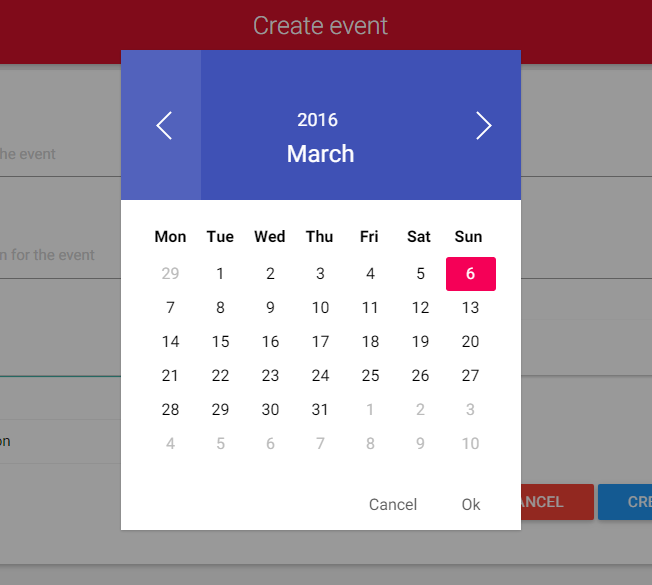
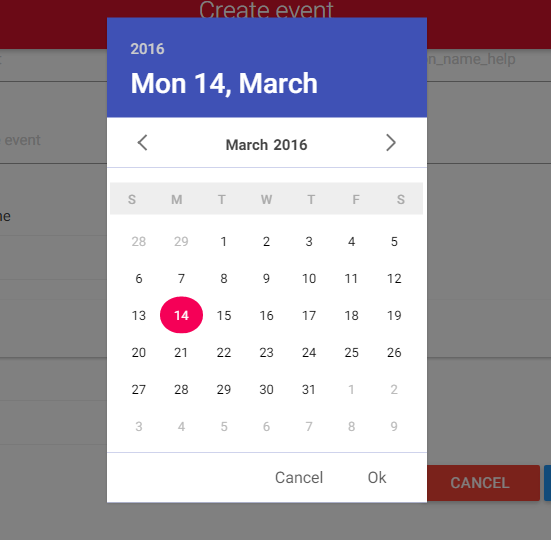
Updating documentation

diff --git a/README.md b/README.md
@@ -12,8 +12,9 @@ The demo page is [HERE](http://hilongjw.github.io/vue-datepicker/demo.html).
 - [Vue.js](https://github.com/yyx990803/vue) `^1.0.0`
 - [moment](https://github.com/moment/moment) `^2.11.1`
 - [lodash](https://github.com/lodash/lodash) `^4.5.0`
+- [vue-touch](https://github.com/vuejs/vue-touch) `^1.0.2`
 
-# Instllation
+# Installation
 
 ## npm
 
@@ -35,6 +36,7 @@ export default {
         testTime: '',
         option: {
           type: 'day',
+          startsOnSunday: false,
           week: ['Mo', 'Tu', 'We', 'Th', 'Fr', 'Sa', 'Su'],
           month: ['January', 'February', 'March', 'April', 'May', 'June', 'July', 'August', 'September', 'October', 'November', 'December'],
           format:'YYYY-MM-DD'
